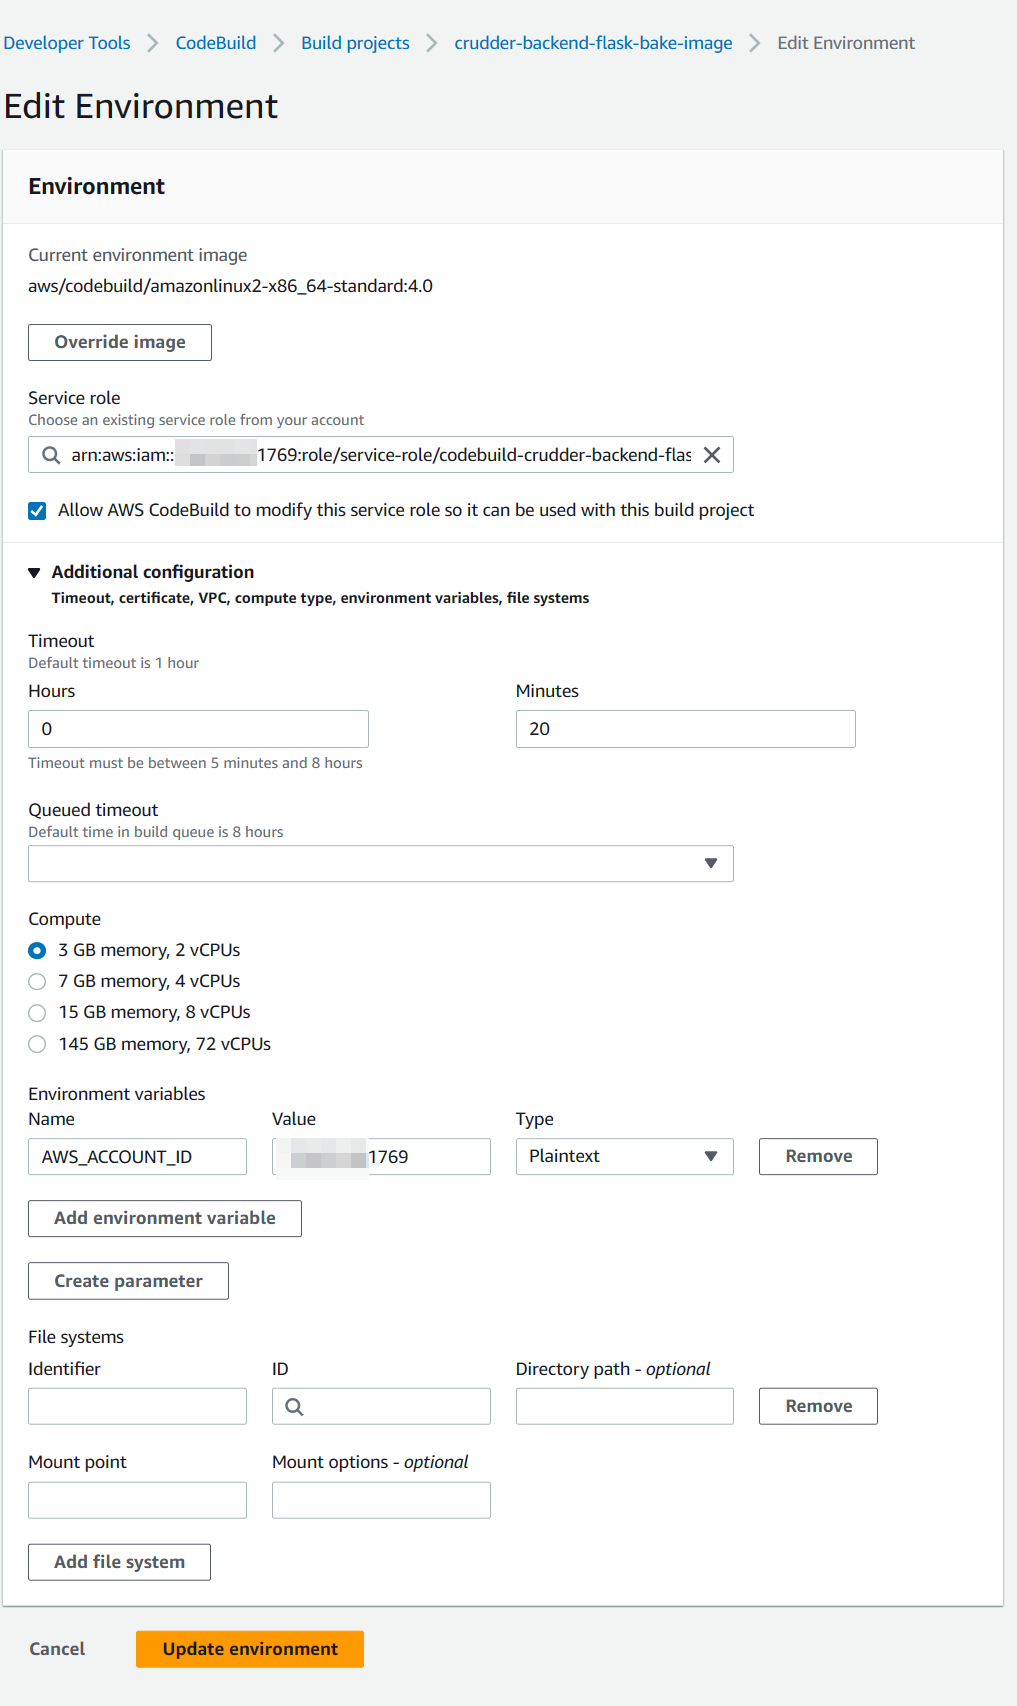
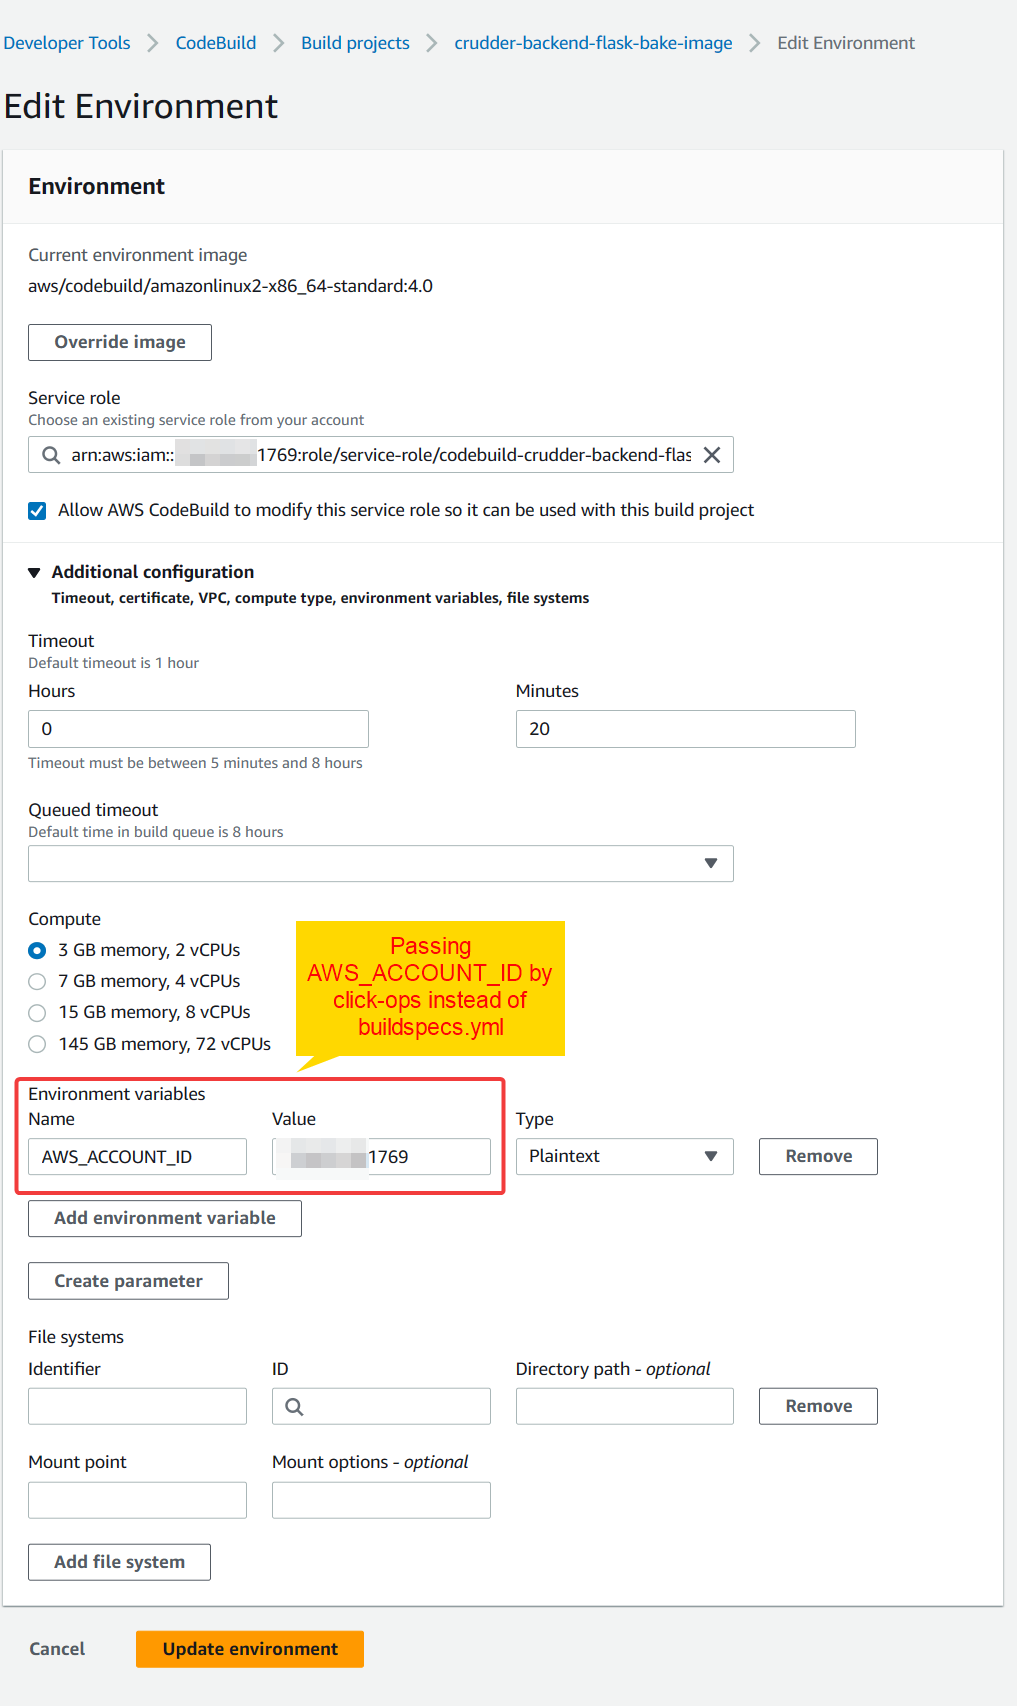
week09 journal is finished

Changed region(s): [[0.2743, 0.5281, 0.5792, 0.6835], [0.0, 0.6213, 0.0305, 0.7145]]

diff --git a/journal/week9.md b/journal/week9.md
@@ -1,6 +1,32 @@
 # Week 9 — CI/CD with CodePipeline, CodeBuild and CodeDeploy
 ## Required Homework:
 ### Configuring CodeBuild:
-I've configured CodeBuild as per the video instructions (1 and 2) and I made sure it ran successfully. I had some minor difficulties getting CodeBuild to build the image as I switched the build command to use `Dockerfile.prod` instead of the `Dockerfile` in the instructions. And as this file uses some build args, I had to make the necessary adjustments in the `buildspecs.yml`
+I've configured CodeBuild as per the video instructions (1 and 2) and I made sure it ran successfully. I had some minor difficulties getting CodeBuild to build the image as I switched the build command to use `Dockerfile.prod` instead of the `Dockerfile` in the instructions. And as this file uses some build args, I had to make the necessary adjustments in the `buildspecs.yml`. Also, I tried to pass ***AWS_ACCOUNT_ID*** from the CodePipeline through AWS Console click-ops as I didn't want to pass it in the `buildspecs.yml`, eventually I got it working by using 
+```sh
+export IMAGE_URL="$AWS_ACCOUNT_ID..dkr.ecr.us-east-1.amazonaws.com
+``` 
+in `buildspecs.yml`.
+* Build project configs:
+![project](assests/week09/hwreq-0101-codebuild-config.png)
+* Source configs:
+![Source](assests/week09/hwreq-0102-codebuild-config-source.png)
+* Environment configs:
+![Environment](assests/week09/hwreq-0103-codebuild-config-env.png)
+* Buildspecs configs:
+![Buildspecs](assests/week09/hwreq-0104-codebuild-config-buildspec.png)
+* Logs configs:
+![Logs](assests/week09/hwreq-0105-codebuild-config-logs.png)
 ### Configuring CodePipeline:
-## Homework Challenges:
+I've configured the CodePipeline and integrated the CodeBuild project just configured.  
+* Source configs:
+![Source](assests/week09/hwreq-0201-codepipline-config-source.png)
+* Build configs:
+![Build](assests/week09/hwreq-0202-codepipline-config-build.png)
+* Deploy configs:
+![Deploy](assests/week09/hwreq-0203-codepipline-config-deploy.png)
+* Pipeline run demo:
+![pipeline run](assests/week09/hwreq-0206-codepipeline-demo.gif))
+* Api health check before the deployment (shows ver 1):
+![before build](assests/week09/hwreq-0204-before-deployment.png)
+* Api health check after the deployment (shows ver 2):
+![before build](assests/week09/hwreq-0205-after-deployment.png)
